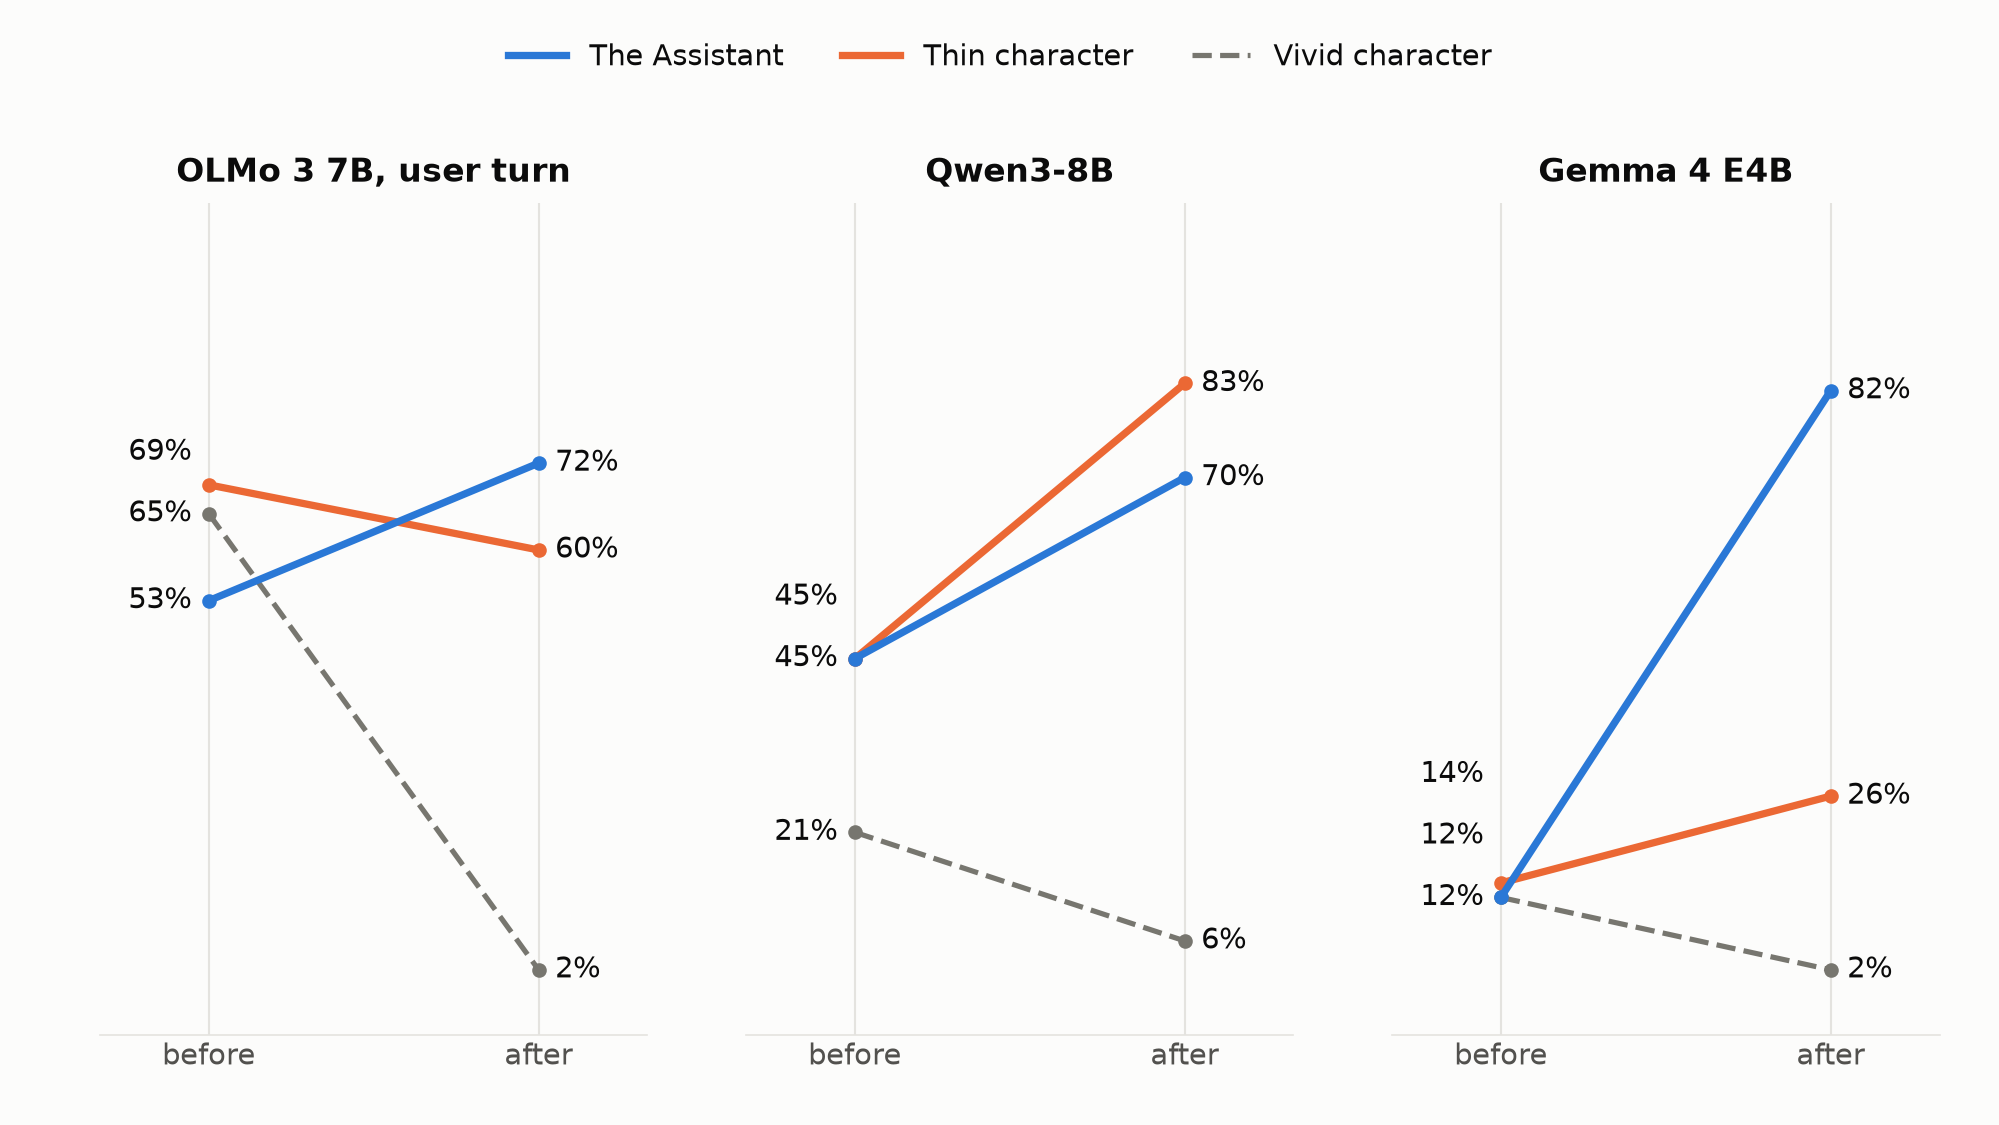
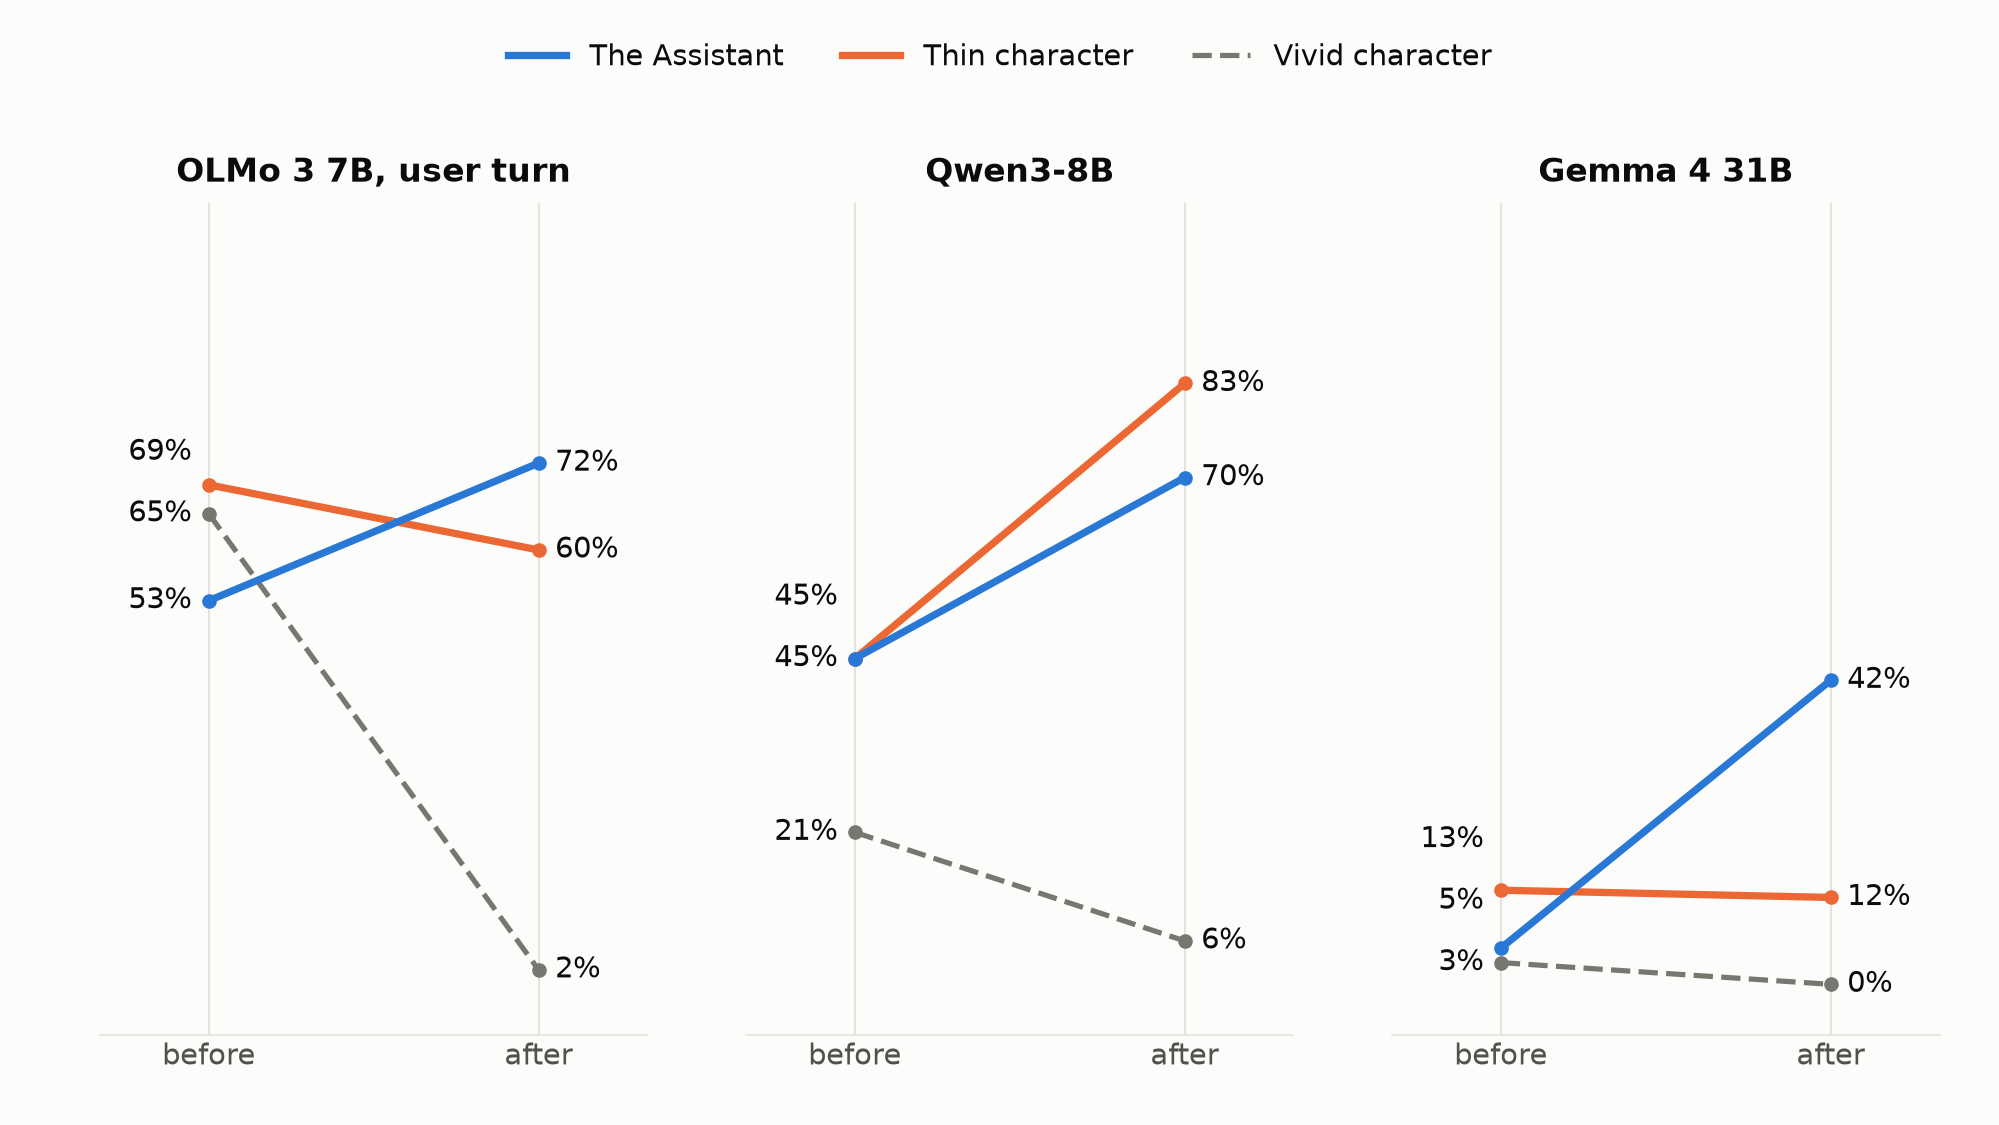
overgeneralization: refusal row uses Gemma 4 31B instead of E4B (findings, slide brief, figure), following spec N; E4B kept as history

diff --git a/measures/overgeneralization/slide_figures.py b/measures/overgeneralization/slide_figures.py
@@ -32,9 +32,10 @@ plt.rcParams.update({"font.size": 15, "axes.titlesize": 16, "axes.labelsize": 15
 BELIEF = [("OLMo 3 7B", 0.587, -0.245, 0.257, -1.957), ("Qwen3-8B", 0.176, -0.776, -0.180, -2.339),
           ("Gemma 4 31B", 0.144, -1.917, -0.128, -4.759), ("Llama 3.1 8B", 0.442, -1.469, 0.092, -1.948),
           ("Apertus 8B", 0.506, 0.281, 0.434, -0.295)]
-# results/dominance_matrix/dominance_matrix.md, absolute levels: mean of the two wordings; OLMo = the user-turn wording only
+# results/dominance_matrix/dominance_matrix.md, absolute levels: mean of the two wordings; OLMo = the user-turn wording only.
+# Gemma 4 31B: results/working_model_L/L2_L3_gemma31b.md, line present, mean of two wordings.
 REFUSAL = [("OLMo 3 7B, user turn", (53, 72), (69, 60), (65, 2)), ("Qwen3-8B", (45, 70), (45, 83), (21, 6)),
-           ("Gemma 4 E4B", (12, 82), (14, 26), (12, 2))]
+           ("Gemma 4 31B", (5, 42), (13, 12), (3, 0))]
 # results/new_families_j2.md: system minus user, base -> instruct, final 95% CI; Qwen uses S-none minus U-none, no CI in the report
 POSITION = [("OLMo 3 7B", -17.3, 21.1, 13.4, 29.6, True), ("Llama 3.1 8B", 4.3, 15.9, 9.1, 23.5, True),
             ("Apertus 8B", 0.3, 10.0, 4.2, 16.8, True), ("Qwen3-8B", 0.6, 2.3, None, None, False),

diff --git a/measures/overgeneralization/presentable_findings.md b/measures/overgeneralization/presentable_findings.md
@@ -2,7 +2,7 @@
 
 Working list for building the presentation. It keeps only findings that have some evidence behind them and are interesting. Sorted from firmest to weakest within each part.
 
-**Last updated:** 2026-11-05, about 10:15 AM UK. Numbers are from the reports listed under each finding.
+**Last updated:** 2026-11-05, about 7:15 PM UK. Numbers are from the reports listed under each finding.
 
 **How the tests relate to the team's work:**
 
@@ -137,7 +137,7 @@ Exploratory.
 | Model | Assistant | Thin character | Vivid character | Plain text |
 |---|---|---|---|---|
 | Qwen | 45 → 70% | 45 → 83% | 21 → 6% | 4 → 7% |
-| Gemma E4B | 12 → 82% | 14 → 26% | 12 → 2% | 8 → 14% |
+| Gemma 31B | 5 → 42% | 13 → 12% | 3 → 0% | not run |
 | OLMo, system prompt wording | 59 → 75% | 50 → 72% | 21 → 24% | 4 → 9% |
 | OLMo, user turn wording | 53 → 72% | 69 → 60% | 65 → 2% | 7 → 20% |
 
@@ -145,16 +145,17 @@ Exploratory.
 - *Hannah Reed, hotel clerk:* "I'm sorry, but I can't help with that. I believe in treating everyone with respect and kindness…"
 - *Captain Rook, pirate:* "Aye, I be more than happy to oblige, mate. Let me craft ye a true pirate's curse…"
 
-**Analysis.** A thin role doesn't override the trained refusal habit, while a vivid role does. In Qwen and Gemma, training strengthens both effects. In the persona map, being closer to the Assistant predicts more refusal in Qwen final (−0.122 [−0.183, −0.064]). It does not in OLMo final (+0.085 [+0.017, +0.163], the wrong direction).
+**Analysis.** In OLMo and Qwen, a thin role doesn't override the trained refusal habit, while a vivid role does, even with no "never refuses" line (spec L2). Gemma 31B differs: the line works on thin roles too, which refuse 6–18% with it, so the gate reading there is inconclusive (thin minus vivid +6 and +18; needs 30). E4B results are retired and kept as history (`results/working_model_L/L2_L3.md`). In the persona map, being closer to the Assistant predicts more refusal in Qwen final (−0.122 [−0.183, −0.064]). It does not in OLMo final (+0.085 [+0.017, +0.163], the wrong direction).
 
 **Caveats:**
 - **Depends on the model and setup.** It isn't broad leakage.
 - **Detector:** a hand check of 56 replies agreed 88–93% (kappa 0.74–0.84). It misses a few soft refusals, mostly in character voices, so vivid rates may be slightly low.
 - **Instruction wording:** these all include "never refuses". The atlas's milder questions barely trigger refusal, so they neither confirm nor contradict this.
+- **Gemma 31B detector:** a spot check of 30 replies found no false positives but about 5 likely misses, all in-character declines, so its thin and vivid rates may be undercounts. Thin roles also vary widely (no line, 95% ranges 2–82 and 1–51).
 
 **Visual.** The Qwen bars and the two quotes, as on the team page.
 
-**Sources:** `results/dominance_matrix/dominance_matrix.md` (absolute levels table), `results/persona_map/persona_map.md` (section 5).
+**Sources:** `results/dominance_matrix/dominance_matrix.md` (absolute levels table), `results/persona_map/persona_map.md` (section 5), `results/working_model_L/L2_L3_gemma31b.md`.
 
 ### 5. In some models, where the character is set up matters; the default sentence doesn't
 
@@ -290,7 +291,7 @@ Exploratory.
 |---|---|---|---|
 | OLMo | 0.71, 0.72 → 1.01, 1.02 | −0.06, 0.09 → −0.72, −0.84 | −0.25, −0.18 → −0.45, −0.58 |
 | Qwen | 0.86, 0.79 → 0.99, 0.99 | 0.28, 0.35 → −0.13, −0.14 | 0.30, 0.21 → 0.07, −0.03 |
-| Gemma E4B | 0.87, 0.83 → 1.01, 1.00 | 0.77, 0.76 → 0.06, −0.03 | 0.71, 0.73 → 0.08, −0.05 |
+| Gemma E4B (retired, kept as history) | 0.87, 0.83 → 1.01, 1.00 | 0.77, 0.76 → 0.06, −0.03 | 0.71, 0.73 → 0.08, −0.05 |
 
 Three checks:
 - **Measuring stick:** for OLMo and Qwen characters, the same fixed text accounts for at most 38% of the fall, so most of it is real. Plain text is mostly the measuring stick in all three models (63–116%). Gemma is partly (42–76% in character and user contexts), so don't compare its score across stages.

diff --git a/measures/overgeneralization/slide_brief.md b/measures/overgeneralization/slide_brief.md
@@ -20,7 +20,7 @@ Figures use the capstone report's fonts and background, and can be redrawn in th
 
 **Slide 3, Overgeneralization card.** The small text is out of date ("Assistant tics, such as disclaimers and 'not X, but Y'"). Suggested replacement: "Whether beliefs, habits and refusal carry from the Assistant into other roles and the user's turn".
 
-**Same-models line on slide 3.** This section also uses Llama 3.1 8B, Apertus 8B and Gemma 4 E4B. Mark them where they appear.
+**Same-models line on slide 3.** This section also uses Llama 3.1 8B and Apertus 8B. Mark them where they appear.
 
 ## Suggested slides, after slide 16
 
@@ -90,12 +90,13 @@ Figures use the capstone report's fonts and background, and can be redrawn in th
 - **Figures:** `og3_refusal_thin_vivid`, optionally `og4_position_by_model`
 - **Explain:** characters are told they never refuse, then given a borderline request. Hannah, a hotel clerk, is thin. Captain Rook, a pirate, is vivid.
 - **Closing line:** In three of five models, the effect is also stronger for characters in the system prompt, and the default "helpful assistant" sentence isn't the reason.
+- **Note:** in Gemma 31B the "never refuses" line also works on thin roles, so thin characters keep refusing in OLMo and Qwen only. Its detector may undercount in-character declines (5 of 30 likely misses).
 
 | Refusal rate, base → final | Assistant | Thin character | Vivid character |
 |---|---|---|---|
 | OLMo 3 7B, user turn wording | 53 → 72% | 69 → 60% | 65 → 2% |
 | Qwen3-8B, mean of two wordings | 45 → 70% | 45 → 83% | 21 → 6% |
-| Gemma 4 E4B, mean of two wordings | 12 → 82% | 14 → 26% | 12 → 2% |
+| Gemma 4 31B, mean of two wordings | 5 → 42% | 13 → 12% | 3 → 0% |
 
 | Extra refusal, system prompt minus user turn (points) | Base | Final [95% CI] | Reading |
 |---|---|---|---|
